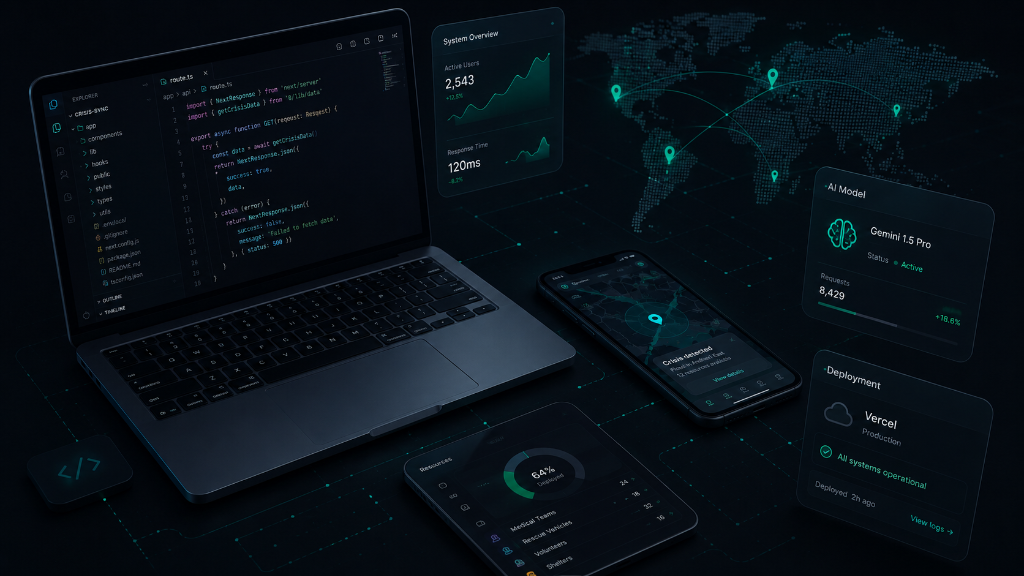
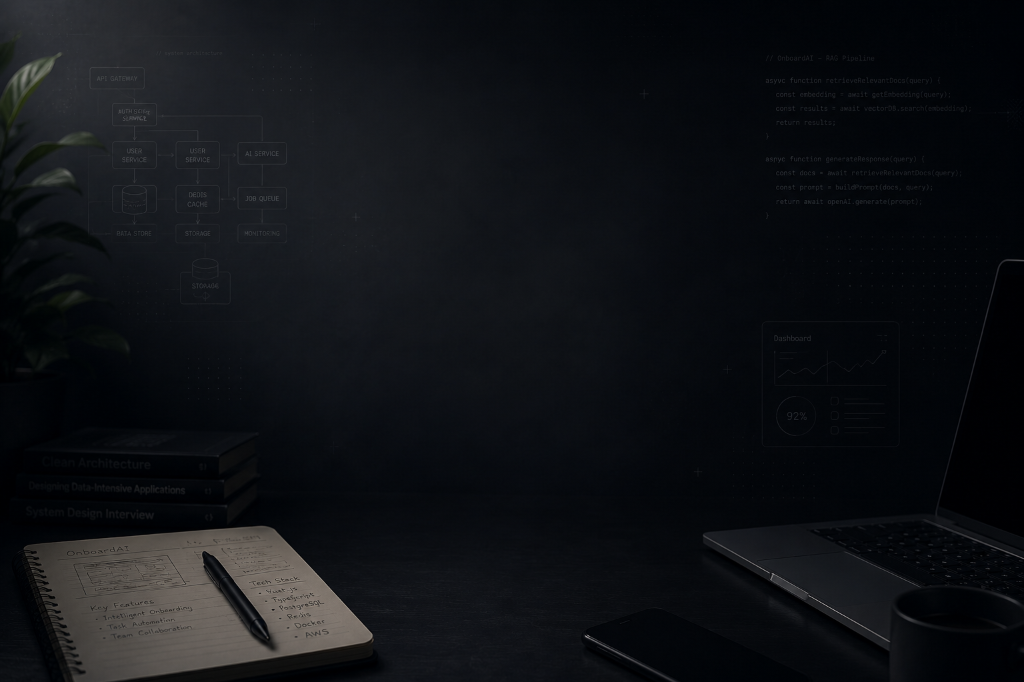
feat: implement light theme with new color tokens, background assets, and section-specific overrides

diff --git a/src/app/globals.css b/src/app/globals.css
@@ -2,21 +2,22 @@
 
 /* ─── Design Tokens ─── */
 :root {
-  --bg: #F7F8FA;
-  --surface: #FFFFFF;
-  --elevated: #F0F2F5;
-  --border: rgba(15, 23, 42, 0.08);
-  --border-strong: rgba(15, 23, 42, 0.16);
-  --text-primary: #0B1220;
-  --text-secondary: #5B6573;
-  --text-tertiary: #8A929E;
-  --accent: #0E9F8C;
-  --accent-hover: #0B8073;
-  --accent-muted: rgba(14, 159, 140, 0.08);
-  --accent-subtle: rgba(14, 159, 140, 0.14);
-  --nav-bg: rgba(247, 248, 250, 0.88);
-  --card-shadow: 0 1px 2px rgba(0,0,0,0.04), 0 0 0 1px rgba(15,23,42,0.06);
-  --card-shadow-hover: 0 8px 24px rgba(0,0,0,0.08), 0 0 0 1px rgba(15,23,42,0.08);
+  --bg: #F5F2E8;
+  --surface: #F1EEDF;
+  --elevated: #EBE6D4;
+  --border: rgba(20, 20, 20, 0.08);
+  --border-strong: rgba(20, 20, 20, 0.16);
+  --border-custom: rgba(20, 20, 20, 0.08);
+  --text-primary: #141414;
+  --text-secondary: #5C5C57;
+  --text-tertiary: #7B7B75;
+  --accent: #B96A3B;
+  --accent-hover: #9E562F;
+  --accent-muted: rgba(185, 106, 59, 0.08);
+  --accent-subtle: rgba(185, 106, 59, 0.12);
+  --nav-bg: rgba(245, 242, 232, 0.88);
+  --card-shadow: 0 4px 12px rgba(0, 0, 0, 0.04);
+  --card-shadow-hover: 0 12px 30px rgba(0, 0, 0, 0.05);
   --primary: var(--accent);
 }
 
@@ -24,8 +25,9 @@
   --bg: #080D12;
   --surface: #0E1620;
   --elevated: #141F2C;
-  --border: rgba(255,255,255,0.07);
-  --border-strong: rgba(255,255,255,0.14);
+  --border: rgba(255, 255, 255, 0.07);
+  --border-strong: rgba(255, 255, 255, 0.14);
+  --border-custom: rgba(255, 255, 255, 0.08);
   --text-primary: #F0F4F8;
   --text-secondary: #8A9AB0;
   --text-tertiary: #5A6A7A;
@@ -34,8 +36,8 @@
   --accent-muted: rgba(32, 191, 175, 0.08);
   --accent-subtle: rgba(32, 191, 175, 0.16);
   --nav-bg: rgba(8, 13, 18, 0.90);
-  --card-shadow: 0 1px 3px rgba(0,0,0,0.5), 0 0 0 1px rgba(255,255,255,0.05);
-  --card-shadow-hover: 0 8px 32px rgba(0,0,0,0.6), 0 0 0 1px rgba(255,255,255,0.1);
+  --card-shadow: 0 1px 3px rgba(0, 0, 0, 0.5), 0 0 0 1px rgba(255, 255, 255, 0.05);
+  --card-shadow-hover: 0 8px 32px rgba(0, 0, 0, 0.6), 0 0 0 1px rgba(255, 255, 255, 0.1);
   --primary: var(--accent);
 }
 
@@ -46,6 +48,7 @@
   --color-elevated: var(--elevated);
   --color-border-t: var(--border);
   --color-border-strong: var(--border-strong);
+  --color-border-custom: var(--border-custom);
   --color-text-primary: var(--text-primary);
   --color-text-secondary: var(--text-secondary);
   --color-text-tertiary: var(--text-tertiary);
@@ -290,4 +293,193 @@ textarea:focus-visible,
   color: #f472b6;
   opacity: 0.4;
   animation: glitch-x 0.4s steps(1) 1 0.05s;
+}
+
+/* ─── Light Theme Design Language Redesign ─── */
+
+/* 1. Body warm paper texture, radial gradient & vignette */
+html:not(.dark) body {
+  background-image: 
+    radial-gradient(circle at center, transparent 40%, rgba(20, 20, 20, 0.02) 100%),
+    linear-gradient(to bottom, transparent, rgba(20, 20, 20, 0.01)) !important;
+  background-attachment: fixed !important;
+}
+
+html:not(.dark) .grain-layer {
+  opacity: 0.035 !important;
+}
+
+/* Disable Click Spark Canvas in Light Mode (No particles) */
+html:not(.dark) canvas {
+  display: none !important;
+}
+
+/* 2. Card Styling Overrides (Rounded 24px, Soft borders, Warm backgrounds, No glassmorphism) */
+html:not(.dark) .card,
+html:not(.dark) .card-base {
+  border-radius: 24px !important;
+  background: var(--surface) !important;
+  border: 1px solid var(--border) !important;
+  box-shadow: var(--card-shadow) !important;
+  backdrop-filter: none !important;
+  -webkit-backdrop-filter: none !important;
+}
+html:not(.dark) .card:hover,
+html:not(.dark) .card-base:hover {
+  box-shadow: var(--card-shadow-hover) !important;
+  border-color: var(--border-strong) !important;
+}
+
+/* 3. Button Custom Style Overrides (Primary & Secondary buttons) */
+/* Primary buttons */
+html:not(.dark) .bg-accent.text-white,
+html:not(.dark) button.bg-accent.text-white,
+html:not(.dark) a.bg-accent.text-white {
+  background-color: #141414 !important;
+  color: #F5F2E8 !important;
+  box-shadow: 0 4px 12px rgba(0, 0, 0, 0.04) !important;
+  border: none !important;
+}
+html:not(.dark) .bg-accent.text-white:hover,
+html:not(.dark) button.bg-accent.text-white:hover,
+html:not(.dark) a.bg-accent.text-white:hover {
+  background-color: #2A2A2A !important;
+}
+
+/* Secondary / Outline buttons */
+html:not(.dark) .border-border-strong.bg-surface\/40,
+html:not(.dark) .bg-elevated.text-text-primary.border-border-custom,
+html:not(.dark) a.bg-surface\/30.border-border-t {
+  background-color: transparent !important;
+  border: 1px solid rgba(20, 20, 20, 0.16) !important;
+  color: #141414 !important;
+  backdrop-filter: none !important;
+  -webkit-backdrop-filter: none !important;
+  box-shadow: none !important;
+}
+html:not(.dark) .border-border-strong.bg-surface\/40:hover,
+html:not(.dark) .bg-elevated.text-text-primary.border-border-custom:hover,
+html:not(.dark) a.bg-surface\/30.border-border-t:hover {
+  background-color: rgba(20, 20, 20, 0.04) !important;
+  border-color: rgba(20, 20, 20, 0.24) !important;
+  color: #141414 !important;
+}
+
+/* 4. Navigation Overrides */
+/* Background slightly blends, thin border bottom, no glow */
+html:not(.dark) header.glass-nav {
+  background-color: var(--nav-bg) !important;
+  border-bottom: 1px solid var(--border) !important;
+  backdrop-filter: blur(20px) saturate(180%) !important;
+  box-shadow: none !important;
+}
+
+/* Active Nav Limelight in Light Mode */
+html:not(.dark) nav.relative.inline-flex.rounded-full {
+  background-color: rgba(218, 215, 200, 0.4) !important; /* Sidebar/Secondary Surface at 40% */
+  border-color: rgba(20, 20, 20, 0.12) !important;
+}
+
+/* Active/Hover Icon color */
+html:not(.dark) nav.relative.inline-flex a svg {
+  color: var(--text-secondary) !important;
+  opacity: 0.6 !important;
+}
+html:not(.dark) nav.relative.inline-flex a svg.opacity-100 {
+  color: var(--accent) !important;
+  opacity: 1 !important;
+}
+html:not(.dark) nav.relative.inline-flex a:hover svg {
+  color: var(--accent) !important;
+  opacity: 1 !important;
+}
+
+/* 5. Typography Custom Overrides (excluding nav bar and buttons) */
+html:not(.dark) {
+  h1, h2, h3 {
+    font-family: var(--font-inter), system-ui, -apple-system, sans-serif;
+    letter-spacing: -0.02em !important;
+  }
+}
+
+@media (min-width: 1024px) {
+  html:not(.dark) #home h1 {
+    font-size: 72px !important;
+    line-height: 1.1 !important;
+    font-weight: 800 !important;
+  }
+}
+
+html:not(.dark) #about h2,
+html:not(.dark) #skills h2,
+html:not(.dark) #projects h2,
+html:not(.dark) #achievements h2,
+html:not(.dark) #contact h2 {
+  font-size: 40px !important;
+  line-height: 1.2 !important;
+  font-weight: 700 !important;
+}
+
+html:not(.dark) .card h3,
+html:not(.dark) .card-base h3 {
+  font-size: 24px !important;
+  font-weight: 700 !important;
+  letter-spacing: -0.01em !important;
+}
+
+html:not(.dark) #home p,
+html:not(.dark) #about p,
+html:not(.dark) #skills p,
+html:not(.dark) #projects p.text-sm,
+html:not(.dark) #achievements p,
+html:not(.dark) #contact p {
+  font-size: 18px !important;
+  line-height: 1.6 !important;
+}
+
+/* 6. Clean Card hover project overlays */
+html:not(.dark) .group:hover a[href*="/projects/"] {
+  background-color: rgba(245, 242, 232, 0.95) !important;
+  backdrop-filter: none !important;
+}
+html:not(.dark) .group:hover a[href*="/projects/"] div {
+  border-color: rgba(20, 20, 20, 0.16) !important;
+  box-shadow: 0 4px 12px rgba(0, 0, 0, 0.04) !important;
+}
+html:not(.dark) .group:hover a[href*="/projects/"] span {
+  color: #141414 !important;
+}
+
+/* Disable neon gradients/animations in Light Mode */
+html:not(.dark) .star-border-container .border-gradient-bottom,
+html:not(.dark) .star-border-container .border-gradient-top {
+  display: none !important;
+}
+html:not(.dark) .star-border-container {
+  padding: 0 !important;
+  border: 1px solid rgba(20, 20, 20, 0.16) !important;
+  border-radius: 14px !important;
+}
+html:not(.dark) .star-border-container .inner-content {
+  border: none !important;
+  border-radius: 13px !important;
+  background: var(--surface) !important;
+}
+html:not(.dark) .star-border-container:hover .inner-content {
+  background: var(--elevated) !important;
+}
+
+/* Calm Badge styles */
+html:not(.dark) .inline-flex.rounded.bg-rose-600 {
+  background-color: var(--accent) !important;
+  color: #F5F2E8 !important;
+}
+html:not(.dark) .inline-flex.rounded.bg-emerald-600 {
+  background-color: #6E8E59 !important;
+  color: #F5F2E8 !important;
+}
+html:not(.dark) .inline-flex.rounded.bg-sky-600 {
+  background-color: #DAD7C8 !important;
+  color: #141414 !important;
+  border: 1px solid rgba(20, 20, 20, 0.12) !important;
 }

diff --git a/src/components/sections/Hero.tsx b/src/components/sections/Hero.tsx
@@ -52,13 +52,18 @@ export function Hero() {
 
       {/* Background */}
       <div className="absolute inset-0 pointer-events-none select-none z-0">
-        <div className="absolute inset-0 bg-gradient-to-b from-bg/90 via-bg/40 to-bg z-10" />
-        <div className="absolute inset-0 bg-bg/85 dark:bg-bg/90 mix-blend-multiply dark:mix-blend-normal z-10" />
+        <img
+          src="/images/hero_bg_light.png"
+          alt=""
+          className="absolute inset-0 w-full h-full object-cover opacity-[0.85] dark:hidden transition-opacity duration-300"
+        />
         <img
           src="/images/hero_bg.png"
           alt=""
-          className="w-full h-full object-cover opacity-[0.25] dark:opacity-[0.35]"
+          className="absolute inset-0 w-full h-full object-cover opacity-0 dark:opacity-[0.60] transition-opacity duration-300 hidden dark:block"
         />
+        <div className="absolute inset-0 bg-gradient-to-b from-bg/10 via-bg/40 to-bg z-10" />
+        <div className="absolute inset-0 bg-bg/15 dark:bg-transparent mix-blend-multiply dark:mix-blend-normal z-10" />
       </div>
 
       {/* Scanlines */}
@@ -98,17 +103,8 @@ export function Hero() {
               </span>
             </div>
 
-            {/* Big headline */}
             <h1 className="text-[2.8rem] font-extrabold leading-[1.1] tracking-tight text-text-primary sm:text-5xl lg:text-[3.6rem]">
-              Building intelligent{" "}
-              <span className="text-accent">products</span>{" "}
-              for{" "}
-              <span className="text-[#7c6af5]">developers</span>
-              {", "}
-              <span className="text-[#3b8bff]">teams</span>
-              {","}
-              <br />
-              and real-world impact.
+              Building intelligent <span className="text-accent">products</span> for <span className="text-[#6E8E59] dark:text-[#a78bfa]">developers</span>, <span className="text-[#B96A3B] dark:text-[#60a5fa]">teams</span>, and real-world impact.
             </h1>
 
             {/* Sub role */}

diff --git a/src/lib/data.ts b/src/lib/data.ts
@@ -164,7 +164,7 @@ export const projects: Project[] = [
     summary:
       "Autonomous developer onboarding agent that indexes codebases, generates context-aware tasks, and integrates with GitHub, Slack, and email.",
     role: "Lead Developer",
-    context: "Syrus 2026 Hackathon — Top 6 Finalist (500+ teams)",
+    context: "Syrus 2026 Hackathon — Top 6 Finalist",
     techStack: ["Next.js 15", "RAG", "Slack Block Kit", "Nodemailer", "GitHub API"],
     outcome:
       "Three-tier RAG architecture for codebase intelligence. Automated GitHub issue creation, Slack onboarding flows, and persona-driven checklist generation — shipped in 36 hours.",
@@ -355,7 +355,7 @@ export const achievements: Achievement[] = [
 export const contactLinks: ContactLink[] = [
   {
     label: "Email",
-    href: "mailto:[email redacted]", // update with real email
+    href: "mailto:[email redacted]",
     icon: "mail",
   },
   {